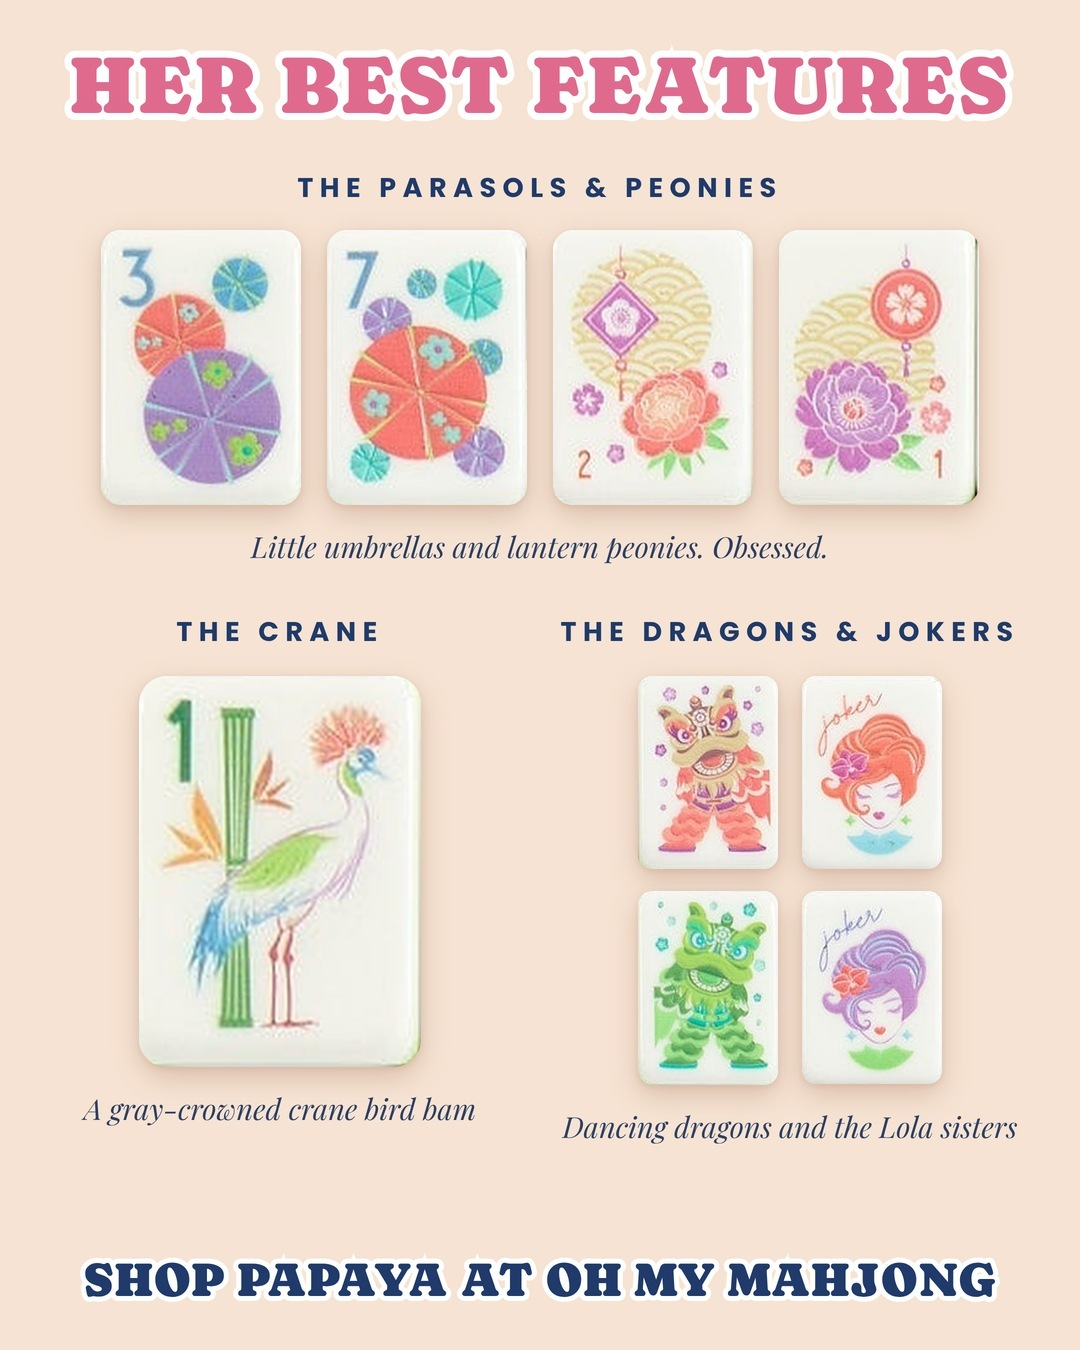
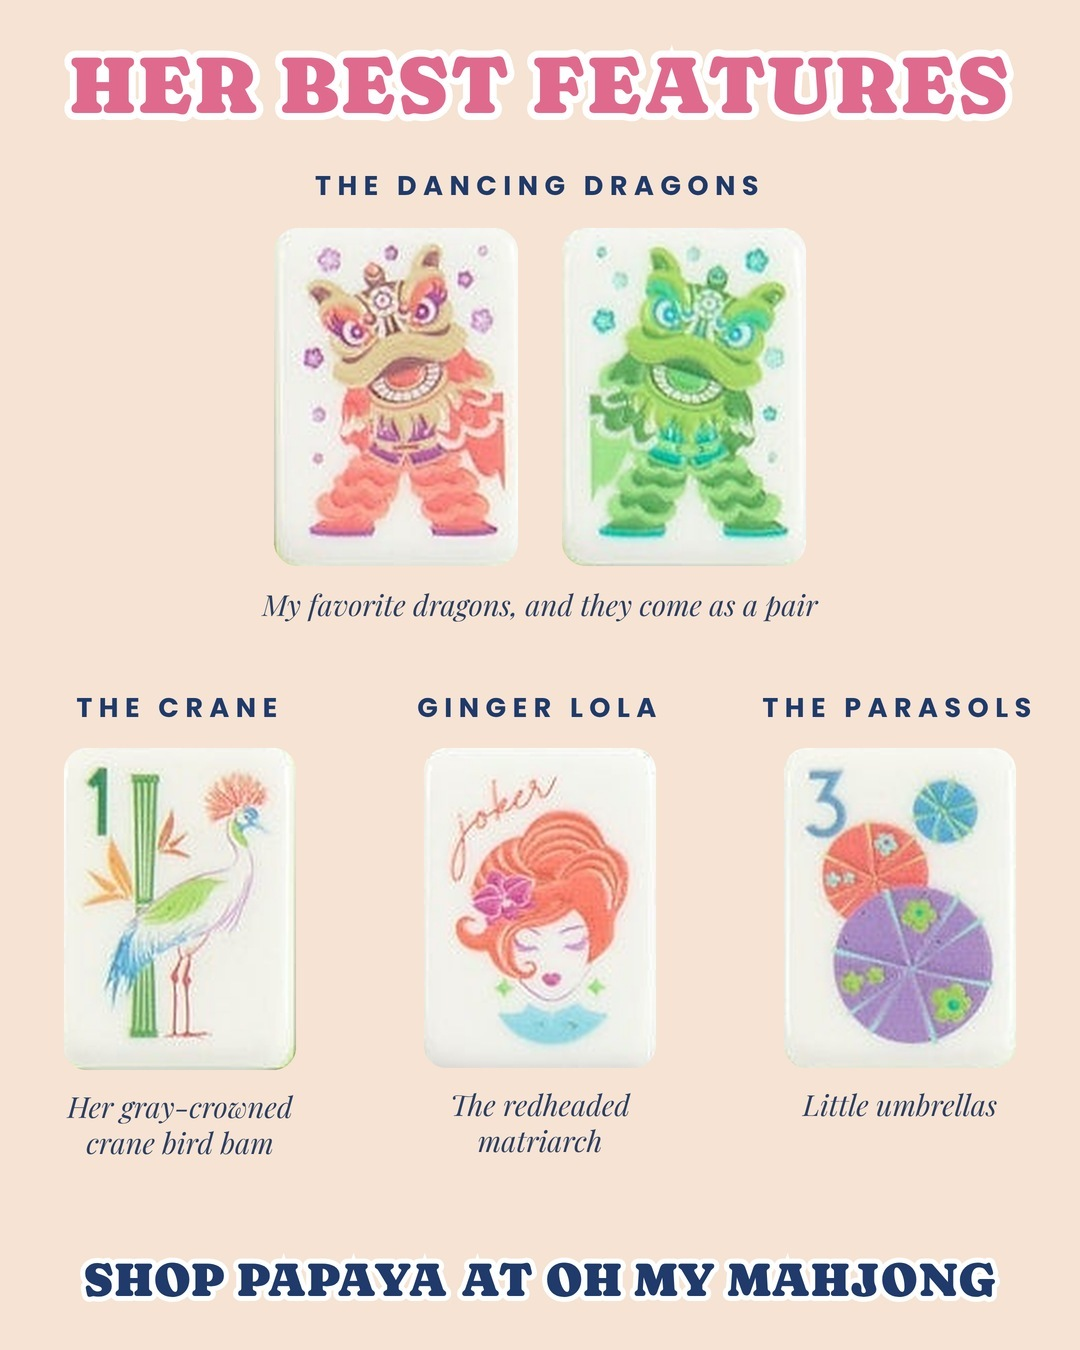
Papaya best features: her picks back (dragons big on top, crane, Ginger Lola, parasols), clean cutouts, no shadows
Claude-Session: https://claude.ai/code/session_014aKoC1ZMdZPjGkZ9kHhnLk

Changed region(s): [[0.0611, 0.1244, 0.9472, 0.8711]]

diff --git a/scripts/colorwheel/favorites.html b/scripts/colorwheel/favorites.html
@@ -7,13 +7,9 @@
 </style></head><body>
 <div style="position:relative;width:1080px;height:1350px;background:#f6e3d3;overflow:hidden">
 <div class="big" style="position:absolute;top:44px;left:0;right:0;font-size:82px;color:#e06a8e">Her best features</div>
-<div style="position:absolute;top:168px;left:0;right:0"><div style="font:700 27px Pop;letter-spacing:.24em;text-transform:uppercase;color:#1f3a6b;text-align:center">The parasols & peonies</div>
- <div style="display:flex;justify-content:center;gap:26px;margin-top:22px"><img src="file:///home/claude/mahjmatchmaker-data/assets/tiles/faces/papaya-spritz/clean/dot3.png" style="width:200px;display:block;filter:drop-shadow(0 10px 14px rgba(120,60,30,.20)) drop-shadow(0 2px 3px rgba(120,60,30,.12))"><img src="file:///home/claude/mahjmatchmaker-data/assets/tiles/faces/papaya-spritz/clean/dot7.png" style="width:200px;display:block;filter:drop-shadow(0 10px 14px rgba(120,60,30,.20)) drop-shadow(0 2px 3px rgba(120,60,30,.12))"><img src="file:///home/claude/mahjmatchmaker-data/assets/tiles/faces/papaya-spritz/clean/peony-coral2.png" style="width:200px;display:block;filter:drop-shadow(0 10px 14px rgba(120,60,30,.20)) drop-shadow(0 2px 3px rgba(120,60,30,.12))"><img src="file:///home/claude/mahjmatchmaker-data/assets/tiles/faces/papaya-spritz/clean/peony-purple1.png" style="width:200px;display:block;filter:drop-shadow(0 10px 14px rgba(120,60,30,.20)) drop-shadow(0 2px 3px rgba(120,60,30,.12))"></div>
- <div style="margin-top:22px"><div style="font:italic 400 29px PF;color:#2c3e63;text-align:center;white-space:nowrap">Little umbrellas and lantern peonies. Obsessed.</div></div></div>
-<div style="position:absolute;top:612px;left:60px;width:440px;display:flex;flex-direction:column;align-items:center"><div style="font:700 27px Pop;letter-spacing:.24em;text-transform:uppercase;color:#1f3a6b;text-align:center">The crane</div>
- <div style="margin-top:24px"><img src="file:///home/claude/mahjmatchmaker-data/assets/tiles/faces/papaya-spritz/clean/crane.png" style="width:282px;display:block;filter:drop-shadow(0 10px 14px rgba(120,60,30,.20)) drop-shadow(0 2px 3px rgba(120,60,30,.12))"></div><div style="margin-top:22px"><div style="font:italic 400 29px PF;color:#2c3e63;text-align:center;white-space:nowrap">A gray-crowned crane bird bam</div></div></div>
-<div style="position:absolute;top:612px;right:60px;width:460px;display:flex;flex-direction:column;align-items:center"><div style="font:700 27px Pop;letter-spacing:.24em;text-transform:uppercase;color:#1f3a6b;text-align:center">The dragons & jokers</div>
- <div style="display:grid;grid-template-columns:auto auto;gap:22px 24px;margin-top:24px"><img src="file:///home/claude/mahjmatchmaker-data/assets/tiles/faces/papaya-spritz/clean/dragon-coral.png" style="width:140px;display:block;filter:drop-shadow(0 10px 14px rgba(120,60,30,.20)) drop-shadow(0 2px 3px rgba(120,60,30,.12))"><img src="file:///home/claude/mahjmatchmaker-data/assets/tiles/faces/papaya-spritz/clean/lola-ginger.png" style="width:140px;display:block;filter:drop-shadow(0 10px 14px rgba(120,60,30,.20)) drop-shadow(0 2px 3px rgba(120,60,30,.12))"><img src="file:///home/claude/mahjmatchmaker-data/assets/tiles/faces/papaya-spritz/clean/dragon-green.png" style="width:140px;display:block;filter:drop-shadow(0 10px 14px rgba(120,60,30,.20)) drop-shadow(0 2px 3px rgba(120,60,30,.12))"><img src="file:///home/claude/mahjmatchmaker-data/assets/tiles/faces/papaya-spritz/clean/lola-lavender.png" style="width:140px;display:block;filter:drop-shadow(0 10px 14px rgba(120,60,30,.20)) drop-shadow(0 2px 3px rgba(120,60,30,.12))"></div>
- <div style="margin-top:22px"><div style="font:italic 400 29px PF;color:#2c3e63;text-align:center;white-space:nowrap">Dancing dragons and the Lola sisters</div></div></div>
+<div style="position:absolute;top:166px;left:0;right:0"><div style="font:700 27px Pop;letter-spacing:.24em;text-transform:uppercase;color:#1f3a6b;text-align:center;white-space:nowrap">The dancing dragons</div>
+ <div style="display:flex;justify-content:center;gap:44px;margin-top:22px"><img src="file:///home/claude/mahjmatchmaker-data/assets/tiles/faces/papaya-spritz/clean/dragon-coral.png" style="width:244px;display:block"><img src="file:///home/claude/mahjmatchmaker-data/assets/tiles/faces/papaya-spritz/clean/dragon-green.png" style="width:244px;display:block"></div>
+ <div style="margin-top:20px"><div style="font:italic 400 29px/1.25 PF;color:#2c3e63;text-align:center;white-space:nowrap">My favorite dragons, and they come as a pair</div></div></div>
+<div style="position:absolute;top:688px;left:30px;right:30px;display:flex;justify-content:space-between"><div style="display:flex;flex-direction:column;align-items:center;width:300px"><div style="font:700 27px Pop;letter-spacing:.24em;text-transform:uppercase;color:#1f3a6b;text-align:center;white-space:nowrap">The crane</div><div style="margin-top:20px"><img src="file:///home/claude/mahjmatchmaker-data/assets/tiles/faces/papaya-spritz/clean/crane.png" style="width:232px;display:block"></div><div style="margin-top:18px"><div style="font:italic 400 29px/1.25 PF;color:#2c3e63;text-align:center;white-space:nowrap">Her gray-crowned<br>crane bird bam</div></div></div><div style="display:flex;flex-direction:column;align-items:center;width:300px"><div style="font:700 27px Pop;letter-spacing:.24em;text-transform:uppercase;color:#1f3a6b;text-align:center;white-space:nowrap">Ginger Lola</div><div style="margin-top:20px"><img src="file:///home/claude/mahjmatchmaker-data/assets/tiles/faces/papaya-spritz/clean/lola-ginger.png" style="width:232px;display:block"></div><div style="margin-top:18px"><div style="font:italic 400 29px/1.25 PF;color:#2c3e63;text-align:center;white-space:nowrap">The redheaded<br>matriarch</div></div></div><div style="display:flex;flex-direction:column;align-items:center;width:300px"><div style="font:700 27px Pop;letter-spacing:.24em;text-transform:uppercase;color:#1f3a6b;text-align:center;white-space:nowrap">The parasols</div><div style="margin-top:20px"><img src="file:///home/claude/mahjmatchmaker-data/assets/tiles/faces/papaya-spritz/clean/dot3.png" style="width:232px;display:block"></div><div style="margin-top:18px"><div style="font:italic 400 29px/1.25 PF;color:#2c3e63;text-align:center;white-space:nowrap">Little umbrellas</div></div></div></div>
 <div class="big" style="position:absolute;bottom:46px;left:0;right:0;font-size:48px;color:#1f3a6b;-webkit-text-stroke:10px #fff">Shop Papaya at Oh My Mahjong</div>
 </div></body></html>

diff --git a/scripts/colorwheel/favorites.py b/scripts/colorwheel/favorites.py
@@ -7,13 +7,14 @@ R='/home/claude/mahjmatchmaker-data'; u=lambda p:f'file://{R}/{p}'
 F=f'file://{R}/scripts/social/tileprofile/fonts'; G='file:///usr/share/fonts/truetype/google-fonts'
 T='assets/tiles/faces/papaya-spritz/clean/'
 SET=dict(title='Her best features', shop='Shop Papaya at Oh My Mahjong',
-  row=('The parasols & peonies', ['dot3','dot7','peony-coral2','peony-purple1'], 'Little umbrellas and lantern peonies. Obsessed.'),
-  hero=('The crane', 'crane', 'A gray-crowned crane bird bam'),
-  quad=('The dragons & jokers', ['dragon-coral','lola-ginger','dragon-green','lola-lavender'], 'Dancing dragons and the Lola sisters'))
-tile=lambda k,w: f'<img src="{u(T+k+".png")}" style="width:{w}px;display:block;filter:drop-shadow(0 10px 14px rgba(120,60,30,.20)) drop-shadow(0 2px 3px rgba(120,60,30,.12))">'
-h=lambda t: f'<div style="font:700 27px Pop;letter-spacing:.24em;text-transform:uppercase;color:#1f3a6b;text-align:center">{t}</div>'
-cap=lambda t: f'<div style="font:italic 400 29px PF;color:#2c3e63;text-align:center;white-space:nowrap">{t}</div>'
-r,hr,q=SET['row'],SET['hero'],SET['quad']
+  top=('The dancing dragons', ['dragon-coral','dragon-green'], 'My favorite dragons, and they come as a pair'),
+  singles=[('The crane','crane','Her gray-crowned<br>crane bird bam'), ('Ginger Lola','lola-ginger','The redheaded<br>matriarch'), ('The parasols','dot3','Little umbrellas')])
+# Tiffany Oct 19 11:20pm: keep HER picks; clean edges, no white boxes, NO shadows; dragons big at the top
+tile=lambda k,w: f'<img src="{u(T+k+".png")}" style="width:{w}px;display:block">'
+h=lambda t: f'<div style="font:700 27px Pop;letter-spacing:.24em;text-transform:uppercase;color:#1f3a6b;text-align:center;white-space:nowrap">{t}</div>'
+cap=lambda t: f'<div style="font:italic 400 29px/1.25 PF;color:#2c3e63;text-align:center;white-space:nowrap">{t}</div>'
+tp=SET['top']
+singles=''.join(f'<div style="display:flex;flex-direction:column;align-items:center;width:300px">{h(n)}<div style="margin-top:20px">{tile(k,232)}</div><div style="margin-top:18px">{cap(c)}</div></div>' for n,k,c in SET['singles'])
 html=f"""<!doctype html><html><head><meta charset=utf8><style>
 @font-face{{font-family:Capra;src:url('{F}/Caprasimo.ttf')}}
 @font-face{{font-family:Pop;font-weight:700;src:url('{G}/Poppins-Bold.ttf')}}
@@ -23,14 +24,10 @@ html=f"""<!doctype html><html><head><meta charset=utf8><style>
 </style></head><body>
 <div style="position:relative;width:1080px;height:1350px;background:#f6e3d3;overflow:hidden">
 <div class="big" style="position:absolute;top:44px;left:0;right:0;font-size:82px;color:#e06a8e">{SET['title']}</div>
-<div style="position:absolute;top:168px;left:0;right:0">{h(r[0])}
- <div style="display:flex;justify-content:center;gap:26px;margin-top:22px">{''.join(tile(k,200) for k in r[2] and r[1])}</div>
- <div style="margin-top:22px">{cap(r[2])}</div></div>
-<div style="position:absolute;top:612px;left:60px;width:440px;display:flex;flex-direction:column;align-items:center">{h(hr[0])}
- <div style="margin-top:24px">{tile(hr[1],282)}</div><div style="margin-top:22px">{cap(hr[2])}</div></div>
-<div style="position:absolute;top:612px;right:60px;width:460px;display:flex;flex-direction:column;align-items:center">{h(q[0])}
- <div style="display:grid;grid-template-columns:auto auto;gap:22px 24px;margin-top:24px">{''.join(tile(k,140) for k in q[1])}</div>
- <div style="margin-top:22px">{cap(q[2])}</div></div>
+<div style="position:absolute;top:166px;left:0;right:0">{h(tp[0])}
+ <div style="display:flex;justify-content:center;gap:44px;margin-top:22px">{''.join(tile(k,244) for k in tp[1])}</div>
+ <div style="margin-top:20px">{cap(tp[2])}</div></div>
+<div style="position:absolute;top:688px;left:30px;right:30px;display:flex;justify-content:space-between">{singles}</div>
 <div class="big" style="position:absolute;bottom:46px;left:0;right:0;font-size:48px;color:#1f3a6b;-webkit-text-stroke:10px #fff">{SET['shop']}</div>
 </div></body></html>"""
 open(R+'/scripts/colorwheel/favorites.html','w').write(html)
